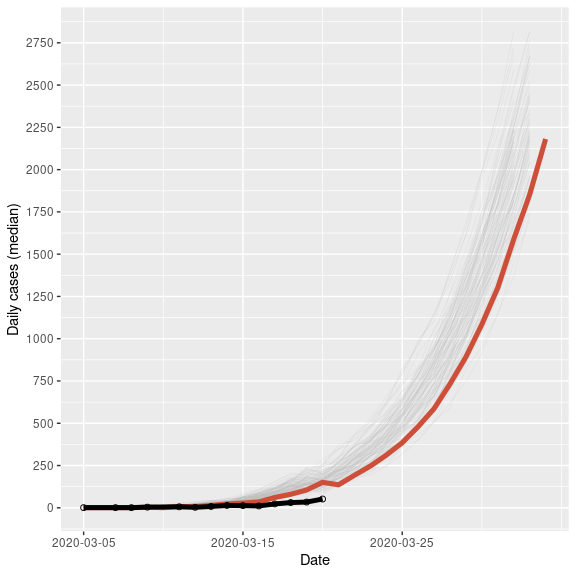
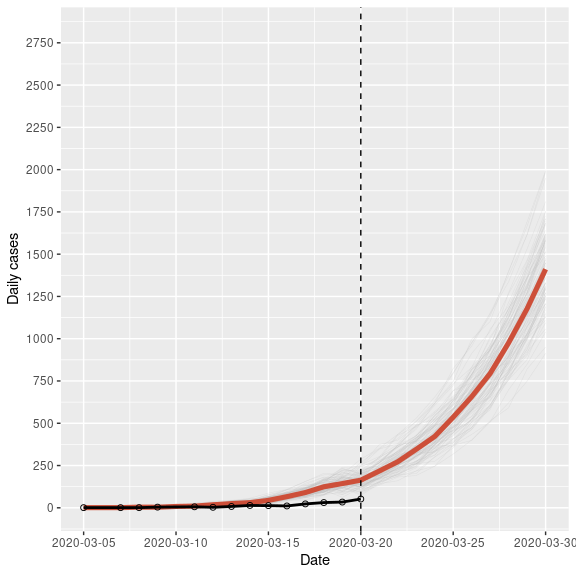
Deploying to gh-pages from @ epiverse-trace/bpmodels@7881ef3d117ad09fac60a5bf1ed6999ce29f7cf8 🚀

diff --git a/articles/projecting_incidence.html b/articles/projecting_incidence.html
@@ -369,40 +369,22 @@ as the reference start date.</p>
 daily cases across all simulations.</p>
 <details class="chunk-details" open><summary class="chunk-summary"><span class="chunk-summary-text">Code</span></summary><div class="sourceCode" id="cb14"><pre class="downlit sourceCode r">
 <code class="sourceCode R"><span><span class="co"># Median daily number of cases aggregated across all simulations</span></span>
-<span><span class="va">median_daily_cases</span> <span class="op">&lt;-</span> <span class="va">incidence_ts</span> <span class="op"><a href="https://magrittr.tidyverse.org/reference/pipe.html" class="external-link">%&gt;%</a></span></span>
-<span>  <span class="fu"><a href="https://dplyr.tidyverse.org/reference/group_by.html" class="external-link">group_by</a></span><span class="op">(</span><span class="va">day</span><span class="op">)</span> <span class="op"><a href="https://magrittr.tidyverse.org/reference/pipe.html" class="external-link">%&gt;%</a></span></span>
+<span><span class="va">median_daily_cases</span> <span class="op">&lt;-</span> <span class="va">incidence_ts_by_date</span> <span class="op"><a href="https://magrittr.tidyverse.org/reference/pipe.html" class="external-link">%&gt;%</a></span></span>
+<span>  <span class="fu"><a href="https://dplyr.tidyverse.org/reference/group_by.html" class="external-link">group_by</a></span><span class="op">(</span><span class="va">date</span><span class="op">)</span> <span class="op"><a href="https://magrittr.tidyverse.org/reference/pipe.html" class="external-link">%&gt;%</a></span></span>
 <span>  <span class="fu"><a href="https://dplyr.tidyverse.org/reference/summarise.html" class="external-link">summarise</a></span><span class="op">(</span>median_cases <span class="op">=</span> <span class="fu"><a href="https://rdrr.io/r/stats/median.html" class="external-link">median</a></span><span class="op">(</span><span class="va">cases</span><span class="op">)</span><span class="op">)</span> <span class="op"><a href="https://magrittr.tidyverse.org/reference/pipe.html" class="external-link">%&gt;%</a></span></span>
 <span>  <span class="fu"><a href="https://dplyr.tidyverse.org/reference/group_by.html" class="external-link">ungroup</a></span><span class="op">(</span><span class="op">)</span> <span class="op"><a href="https://magrittr.tidyverse.org/reference/pipe.html" class="external-link">%&gt;%</a></span></span>
-<span>  <span class="fu"><a href="https://dplyr.tidyverse.org/reference/arrange.html" class="external-link">arrange</a></span><span class="op">(</span><span class="va">day</span><span class="op">)</span></span>
+<span>  <span class="fu"><a href="https://dplyr.tidyverse.org/reference/arrange.html" class="external-link">arrange</a></span><span class="op">(</span><span class="va">date</span><span class="op">)</span></span>
 <span></span>
 <span><span class="fu"><a href="https://rdrr.io/r/utils/head.html" class="external-link">head</a></span><span class="op">(</span><span class="va">median_daily_cases</span><span class="op">)</span></span>
 <span><span class="co">#&gt; <span style="color: #949494;"># A tibble: 6 × 2</span></span></span>
-<span><span class="co">#&gt;     day median_cases</span></span>
-<span><span class="co">#&gt;   <span style="color: #949494; font-style: italic;">&lt;dbl&gt;</span>        <span style="color: #949494; font-style: italic;">&lt;dbl&gt;</span></span></span>
-<span><span class="co">#&gt; <span style="color: #BCBCBC;">1</span>     0            1</span></span>
-<span><span class="co">#&gt; <span style="color: #BCBCBC;">2</span>     1            1</span></span>
-<span><span class="co">#&gt; <span style="color: #BCBCBC;">3</span>     2            1</span></span>
-<span><span class="co">#&gt; <span style="color: #BCBCBC;">4</span>     3            1</span></span>
-<span><span class="co">#&gt; <span style="color: #BCBCBC;">5</span>     4            4</span></span>
-<span><span class="co">#&gt; <span style="color: #BCBCBC;">6</span>     5            1</span></span></code></pre></div>
-</details><p>As was done for the individual simulations, we will add a date column in the
-same manner.</p>
-<details class="chunk-details" open><summary class="chunk-summary"><span class="chunk-summary-text">Code</span></summary><div class="sourceCode" id="cb15"><pre class="downlit sourceCode r">
-<code class="sourceCode R"><span><span class="co"># Add dates</span></span>
-<span><span class="va">median_daily_cases</span> <span class="op">&lt;-</span> <span class="va">median_daily_cases</span> <span class="op"><a href="https://magrittr.tidyverse.org/reference/pipe.html" class="external-link">%&gt;%</a></span></span>
-<span>  <span class="fu"><a href="https://dplyr.tidyverse.org/reference/mutate.html" class="external-link">mutate</a></span><span class="op">(</span>date <span class="op">=</span> <span class="va">index_date</span> <span class="op">+</span> <span class="fu"><a href="https://lubridate.tidyverse.org/reference/period.html" class="external-link">days</a></span><span class="op">(</span><span class="fu"><a href="https://rdrr.io/r/base/seq.html" class="external-link">seq</a></span><span class="op">(</span><span class="fl">0</span>, <span class="va">projection_end_day</span><span class="op">)</span><span class="op">)</span><span class="op">)</span> <span class="op"><a href="https://magrittr.tidyverse.org/reference/pipe.html" class="external-link">%&gt;%</a></span></span>
-<span>  <span class="fu"><a href="https://dplyr.tidyverse.org/reference/group_by.html" class="external-link">ungroup</a></span><span class="op">(</span><span class="op">)</span></span>
-<span></span>
-<span><span class="fu"><a href="https://rdrr.io/r/utils/head.html" class="external-link">head</a></span><span class="op">(</span><span class="va">median_daily_cases</span><span class="op">)</span></span>
-<span><span class="co">#&gt; <span style="color: #949494;"># A tibble: 6 × 3</span></span></span>
-<span><span class="co">#&gt;     day median_cases date      </span></span>
-<span><span class="co">#&gt;   <span style="color: #949494; font-style: italic;">&lt;dbl&gt;</span>        <span style="color: #949494; font-style: italic;">&lt;dbl&gt;</span> <span style="color: #949494; font-style: italic;">&lt;date&gt;</span>    </span></span>
-<span><span class="co">#&gt; <span style="color: #BCBCBC;">1</span>     0            1 2020-03-05</span></span>
-<span><span class="co">#&gt; <span style="color: #BCBCBC;">2</span>     1            1 2020-03-06</span></span>
-<span><span class="co">#&gt; <span style="color: #BCBCBC;">3</span>     2            1 2020-03-07</span></span>
-<span><span class="co">#&gt; <span style="color: #BCBCBC;">4</span>     3            1 2020-03-08</span></span>
-<span><span class="co">#&gt; <span style="color: #BCBCBC;">5</span>     4            4 2020-03-09</span></span>
-<span><span class="co">#&gt; <span style="color: #BCBCBC;">6</span>     5            1 2020-03-10</span></span></code></pre></div>
+<span><span class="co">#&gt;   date       median_cases</span></span>
+<span><span class="co">#&gt;   <span style="color: #949494; font-style: italic;">&lt;date&gt;</span>            <span style="color: #949494; font-style: italic;">&lt;dbl&gt;</span></span></span>
+<span><span class="co">#&gt; <span style="color: #BCBCBC;">1</span> 2020-03-05          1  </span></span>
+<span><span class="co">#&gt; <span style="color: #BCBCBC;">2</span> 2020-03-06          1  </span></span>
+<span><span class="co">#&gt; <span style="color: #BCBCBC;">3</span> 2020-03-07          1  </span></span>
+<span><span class="co">#&gt; <span style="color: #BCBCBC;">4</span> 2020-03-08          4  </span></span>
+<span><span class="co">#&gt; <span style="color: #BCBCBC;">5</span> 2020-03-09          3.5</span></span>
+<span><span class="co">#&gt; <span style="color: #BCBCBC;">6</span> 2020-03-10          8</span></span></code></pre></div>
 </details>
 </div>
 <div class="section level2">
@@ -410,7 +392,7 @@ same manner.</p>
 </h2>
 <p>We will now plot the individual simulation results alongside the median
 of the aggregated results.</p>
-<details class="chunk-details" open><summary class="chunk-summary"><span class="chunk-summary-text">Code</span></summary><div class="sourceCode" id="cb16"><pre class="downlit sourceCode r">
+<details class="chunk-details" open><summary class="chunk-summary"><span class="chunk-summary-text">Code</span></summary><div class="sourceCode" id="cb15"><pre class="downlit sourceCode r">
 <code class="sourceCode R"><span></span>
 <span><span class="fu"><a href="https://ggplot2.tidyverse.org/reference/ggplot.html" class="external-link">ggplot</a></span><span class="op">(</span>data <span class="op">=</span> <span class="va">incidence_ts_by_date</span><span class="op">)</span> <span class="op">+</span></span>
 <span>  <span class="fu"><a href="https://ggplot2.tidyverse.org/reference/geom_path.html" class="external-link">geom_line</a></span><span class="op">(</span></span>
@@ -449,19 +431,22 @@ of the aggregated results.</p>
 <span>      y <span class="op">=</span> <span class="va">cases</span></span>
 <span>    <span class="op">)</span>,</span>
 <span>    color <span class="op">=</span> <span class="st">"black"</span>,</span>
-<span>    size <span class="op">=</span> <span class="fl">1.75</span>,</span>
-<span>    shape <span class="op">=</span> <span class="fl">21</span></span>
+<span>    linewidth <span class="op">=</span> <span class="fl">1</span></span>
 <span>  <span class="op">)</span> <span class="op">+</span></span>
 <span>  <span class="fu"><a href="https://ggplot2.tidyverse.org/reference/scale_continuous.html" class="external-link">scale_x_continuous</a></span><span class="op">(</span></span>
 <span>    breaks <span class="op">=</span> <span class="fu"><a href="https://rdrr.io/r/base/seq.html" class="external-link">seq</a></span><span class="op">(</span></span>
 <span>      <span class="fu"><a href="https://rdrr.io/r/base/Extremes.html" class="external-link">min</a></span><span class="op">(</span><span class="va">incidence_ts_by_date</span><span class="op">$</span><span class="va">date</span><span class="op">)</span>,</span>
 <span>      <span class="fu"><a href="https://rdrr.io/r/base/Extremes.html" class="external-link">max</a></span><span class="op">(</span><span class="va">incidence_ts_by_date</span><span class="op">$</span><span class="va">date</span><span class="op">)</span>,</span>
-<span>      <span class="fl">10</span></span>
+<span>      <span class="fl">5</span></span>
 <span>    <span class="op">)</span>,</span>
 <span>    labels <span class="op">=</span> <span class="fu"><a href="https://rdrr.io/r/base/seq.html" class="external-link">seq</a></span><span class="op">(</span></span>
 <span>      <span class="fu"><a href="https://rdrr.io/r/base/Extremes.html" class="external-link">min</a></span><span class="op">(</span><span class="va">incidence_ts_by_date</span><span class="op">$</span><span class="va">date</span><span class="op">)</span>,</span>
 <span>      <span class="fu"><a href="https://rdrr.io/r/base/Extremes.html" class="external-link">max</a></span><span class="op">(</span><span class="va">incidence_ts_by_date</span><span class="op">$</span><span class="va">date</span><span class="op">)</span>,</span>
-<span>      <span class="fl">10</span></span>
+<span>      <span class="fl">5</span></span>
+<span>    <span class="op">)</span>,</span>
+<span>    limits <span class="op">=</span> <span class="fu"><a href="https://rdrr.io/r/base/c.html" class="external-link">c</a></span><span class="op">(</span></span>
+<span>      <span class="fu"><a href="https://rdrr.io/r/base/Extremes.html" class="external-link">min</a></span><span class="op">(</span><span class="va">incidence_ts_by_date</span><span class="op">$</span><span class="va">date</span><span class="op">)</span>,</span>
+<span>      <span class="fu"><a href="https://rdrr.io/r/base/Extremes.html" class="external-link">max</a></span><span class="op">(</span><span class="va">incidence_ts_by_date</span><span class="op">$</span><span class="va">date</span><span class="op">)</span> <span class="op">-</span> <span class="fl">4</span> <span class="co"># for a better visual look</span></span>
 <span>    <span class="op">)</span></span>
 <span>  <span class="op">)</span> <span class="op">+</span></span>
 <span>  <span class="fu"><a href="https://ggplot2.tidyverse.org/reference/scale_continuous.html" class="external-link">scale_y_continuous</a></span><span class="op">(</span></span>
@@ -476,11 +461,15 @@ of the aggregated results.</p>
 <span>      <span class="fl">250</span></span>
 <span>    <span class="op">)</span></span>
 <span>  <span class="op">)</span> <span class="op">+</span></span>
-<span>  <span class="fu"><a href="https://ggplot2.tidyverse.org/reference/labs.html" class="external-link">labs</a></span><span class="op">(</span>x <span class="op">=</span> <span class="st">"Date"</span>, y <span class="op">=</span> <span class="st">"Daily cases (median)"</span><span class="op">)</span></span></code></pre></div>
+<span>  <span class="fu"><a href="https://ggplot2.tidyverse.org/reference/geom_abline.html" class="external-link">geom_vline</a></span><span class="op">(</span></span>
+<span>    mapping <span class="op">=</span> <span class="fu"><a href="https://ggplot2.tidyverse.org/reference/aes.html" class="external-link">aes</a></span><span class="op">(</span>xintercept <span class="op">=</span> <span class="fu"><a href="https://rdrr.io/r/base/Extremes.html" class="external-link">max</a></span><span class="op">(</span><span class="va">covid19_sa</span><span class="op">$</span><span class="va">date</span><span class="op">)</span><span class="op">)</span>,</span>
+<span>    linetype <span class="op">=</span> <span class="st">"dashed"</span></span>
+<span>  <span class="op">)</span> <span class="op">+</span></span>
+<span>  <span class="fu"><a href="https://ggplot2.tidyverse.org/reference/labs.html" class="external-link">labs</a></span><span class="op">(</span>x <span class="op">=</span> <span class="st">"Date"</span>, y <span class="op">=</span> <span class="st">"Daily cases"</span><span class="op">)</span></span></code></pre></div>
 </details><div class="figure">
 <span style="display:block;" id="fig:viz"></span>
-<img src="projecting_incidence_files/figure-html/viz-1.png" alt="COVID-19 incidence projected over a two week window. The gray lines represent individual simulations, red connected dots represent the median daily cases across all simulations, and the black triangles represent the observed data."><p class="caption">
-Figure 1: COVID-19 incidence projected over a two week window. The gray lines represent individual simulations, red connected dots represent the median daily cases across all simulations, and the black triangles represent the observed data.
+<img src="projecting_incidence_files/figure-html/viz-1.png" alt="COVID-19 incidence in South Africa projected over a two week window in 2020. The light gray lines represent the individual simulations, the red line represents the median daily cases across all simulations, the black connected dots represent the observed data, and the dashed vertical line marks the beginning of the projection."><p class="caption">
+Figure 1: COVID-19 incidence in South Africa projected over a two week window in 2020. The light gray lines represent the individual simulations, the red line represents the median daily cases across all simulations, the black connected dots represent the observed data, and the dashed vertical line marks the beginning of the projection.
 </p>
 </div>
 </div>

diff --git a/articles/bpmodels.html b/articles/bpmodels.html
@@ -154,8 +154,8 @@ we use</p>
 <span><span class="va">ll</span> <span class="op">&lt;-</span> <span class="fu"><a href="../reference/chain_ll.html">chain_ll</a></span><span class="op">(</span><span class="va">chain_sizes</span>, <span class="st">"pois"</span>, <span class="st">"size"</span>, obs_prob <span class="op">=</span> <span class="fl">0.3</span>, lambda <span class="op">=</span> <span class="fl">0.5</span>,</span>
 <span>               nsim_obs <span class="op">=</span> <span class="fl">10</span><span class="op">)</span></span>
 <span><span class="va">ll</span></span>
-<span><span class="co">#&gt;  [1] -24.84220 -20.34491 -24.78482 -27.73804 -22.94860 -24.44543 -23.92229</span></span>
-<span><span class="co">#&gt;  [8] -26.22966 -21.52840 -33.34697</span></span></code></pre></div>
+<span><span class="co">#&gt;  [1] -22.64187 -28.56022 -22.89915 -19.85011 -30.17791 -23.47752 -28.20550</span></span>
+<span><span class="co">#&gt;  [8] -24.06857 -22.34205 -27.12020</span></span></code></pre></div>
 </details><p>This returns <code>10</code> likelihood values (because <code>nsim_obs = 10</code>), which can be
 averaged to come up with an overall likelihood estimate.</p>
 <p>To find out about the usage of the <code><a href="../reference/chain_ll.html">chain_ll()</a></code> function, you can run <code><a href="../reference/chain_ll.html">?chain_ll</a></code>
